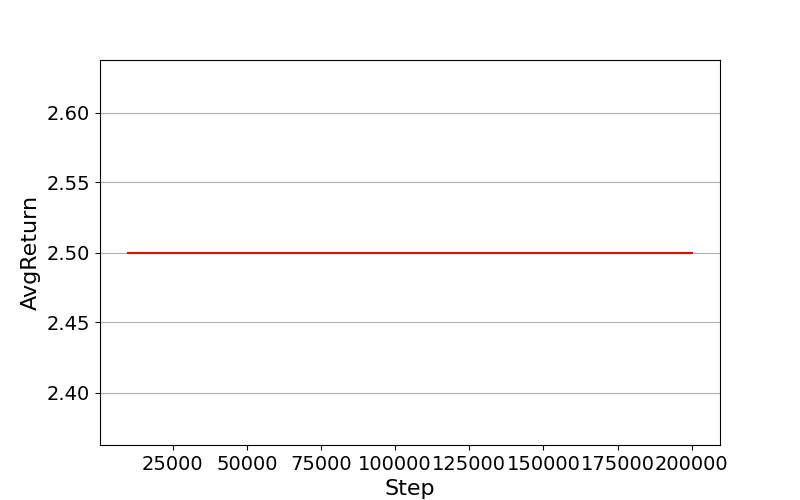
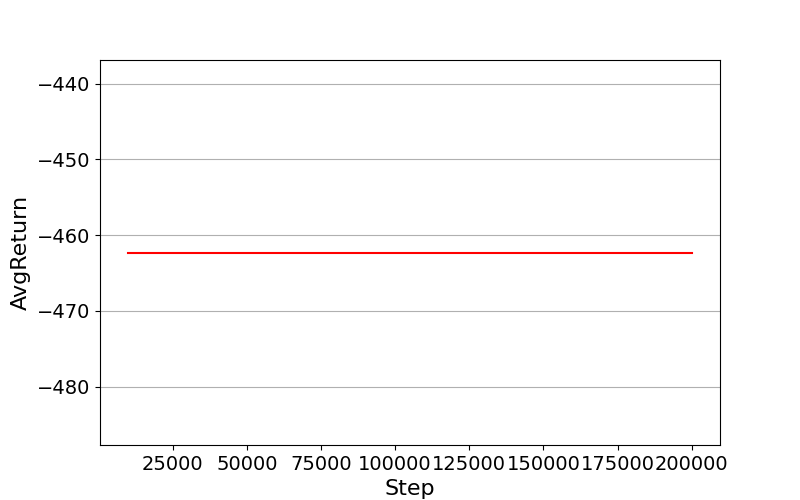
Update training plots, and apply linter formatting to teacher.py.

diff --git a/teacher/teacher.py b/teacher/teacher.py
@@ -16,15 +16,18 @@ from dataclasses import asdict
 import typing as tp
 from utils import log
 
+
 class Teacher:
-    def __init__(self,
-                 agent_preferences: AgentPreferences,
-                 env_preferences: MinesweeperEnvPreferences,
-                 eval_interval: int,
-                 learning_max_steps: int,
-                 model_filename: str,
-                 resume_from: str | None = None,
-                 use_tensorboard: bool = False) -> None:
+    def __init__(
+        self,
+        agent_preferences: AgentPreferences,
+        env_preferences: MinesweeperEnvPreferences,
+        eval_interval: int,
+        learning_max_steps: int,
+        model_filename: str,
+        resume_from: str | None = None,
+        use_tensorboard: bool = False,
+    ) -> None:
         self.env_preferences = env_preferences
         self.agent_preferences = agent_preferences
         self.env = get_minenv(env_preferences)
@@ -33,7 +36,7 @@ class Teacher:
         self.agent_preferences.state_dim = field_size
         self.agent = get_agent(agent_preferences)
         self.agent.action_dim = 2 * field_size[0] * field_size[1]
-        self.top_eval_score = -float('inf')
+        self.top_eval_score = -float("inf")
         self.last_eval_scores = None
         self.last_eval_rewards = None
         self.last_win_rate = 0.0
@@ -53,12 +56,14 @@ class Teacher:
         self._last_print_time: float = 0.0
 
         if resume_from:
-            checkpoint = torch.load(f'{MODELS_CHECKPOINTS_PATH}/{resume_from}', weights_only=False)
-            self.agent.network.load_state_dict(checkpoint['network'])
-            self.agent.optimizer.load_state_dict(checkpoint['optimizer'])
-            self.agent.total_steps = checkpoint['total_steps']
-            self.agent.epsilon = checkpoint['epsilon']
-            self.top_eval_score = checkpoint['top_eval_score']
+            checkpoint = torch.load(
+                f"{MODELS_CHECKPOINTS_PATH}/{resume_from}", weights_only=False
+            )
+            self.agent.network.load_state_dict(checkpoint["network"])
+            self.agent.optimizer.load_state_dict(checkpoint["optimizer"])
+            self.agent.total_steps = checkpoint["total_steps"]
+            self.agent.epsilon = checkpoint["epsilon"]
+            self.top_eval_score = checkpoint["top_eval_score"]
 
     @log
     def evaluate(self, n_evals=5):
@@ -73,7 +78,7 @@ class Teacher:
                 a = self.agent.act(s, training=False)
                 s, reward, terminated, truncated, info = eval_env.step(a)
                 done = terminated or truncated
-            episode_score = info['score']
+            episode_score = info["score"]
             if eval_env.unwrapped.game_won:
                 wins += 1
             rewards.append(episode_score)
@@ -87,13 +92,14 @@ class Teacher:
 
     @log
     def train(self):
-        history = {'Step': [], 'AvgReturn': []}
+        history = {"Step": [], "AvgReturn": []}
         (s, _) = self.env.reset()
         self.start_time = int(time.time())
         writer = None
         if self.use_tensorboard:
             from torch.utils.tensorboard import SummaryWriter
-            writer = SummaryWriter(f'runs/{self.start_time}')
+
+            writer = SummaryWriter(f"runs/{self.start_time}")
         while True:
             self.is_warmup = self.agent.warmup_steps > self.agent.total_steps
             if not self.is_warmup and self.non_warmup_start_time is None:
@@ -106,10 +112,14 @@ class Teacher:
             result = self.agent.process((s, a, r, s_prime, terminated))
             self.last_reward = r
             if result:
-                self.last_loss = result['value_loss']
+                self.last_loss = result["value_loss"]
                 if writer:
-                    writer.add_scalar('train/loss', result['value_loss'], result['total_steps'])
-                    writer.add_scalar('train/epsilon', self.agent.epsilon, result['total_steps'])
+                    writer.add_scalar(
+                        "train/loss", result["value_loss"], result["total_steps"]
+                    )
+                    writer.add_scalar(
+                        "train/epsilon", self.agent.epsilon, result["total_steps"]
+                    )
             s = s_prime
             if terminated or truncated:
                 s, _ = self.env.reset()
@@ -119,18 +129,20 @@ class Teacher:
                 ret = self.evaluate()
                 self.last_avg_return = ret
                 self.recent_eval_returns.append(ret)
-                history['Step'].append(self.agent.total_steps)
-                history['AvgReturn'].append(ret)
+                history["Step"].append(self.agent.total_steps)
+                history["AvgReturn"].append(ret)
                 if writer:
-                    writer.add_scalar('eval/avg_return', ret, self.agent.total_steps)
-                    writer.add_scalar('eval/win_rate', self.last_win_rate, self.agent.total_steps)
+                    writer.add_scalar("eval/avg_return", ret, self.agent.total_steps)
+                    writer.add_scalar(
+                        "eval/win_rate", self.last_win_rate, self.agent.total_steps
+                    )
                 if ret > self.top_eval_score:
                     self.top_eval_score = ret
                     if not self.is_warmup:
                         self.checkpoint_model()
                 if self.evals_counter % 10 == 0:
                     self.create_history_plot(history)
-            if self.env.render_mode == 'info':
+            if self.env.render_mode == "info":
                 self.print_learning_data()
             if self.agent.total_steps > self.learning_max_steps:
                 break
@@ -141,18 +153,18 @@ class Teacher:
 
     def create_history_plot(self, history: dict[str, list]):
         plt.figure(figsize=(8, 5))
-        plt.plot(history['Step'], history['AvgReturn'], 'r')
-        plt.xlabel('Step', fontsize=16)
-        plt.ylabel('AvgReturn', fontsize=16)
+        plt.plot(history["Step"], history["AvgReturn"], "r")
+        plt.xlabel("Step", fontsize=16)
+        plt.ylabel("AvgReturn", fontsize=16)
         plt.xticks(fontsize=14)
         plt.yticks(fontsize=14)
-        plt.grid(axis='y')
-        plt.savefig(f'./evaluations/{self.agent.total_steps}plot.png')
+        plt.grid(axis="y")
+        plt.savefig(f"./evaluations/{self.agent.total_steps}plot.png")
         plt.close()
-        with open('./evaluations/history.csv', 'w', newline='') as f:
+        with open("./evaluations/history.csv", "w", newline="") as f:
             writer = csv.writer(f)
-            writer.writerow(['Step', 'AvgReturn'])
-            writer.writerows(zip(history['Step'], history['AvgReturn']))
+            writer.writerow(["Step", "AvgReturn"])
+            writer.writerows(zip(history["Step"], history["AvgReturn"]))
 
     def print_learning_data(self):
         now = time.time()
@@ -166,71 +178,77 @@ class Teacher:
 
         bar_len = 38
         filled = int(bar_len * pct)
-        bar = '█' * filled + '░' * (bar_len - filled)
+        bar = "█" * filled + "░" * (bar_len - filled)
 
         elapsed = int(now - self.start_time)
         elapsed_str = str(datetime.timedelta(seconds=elapsed))
         if self.non_warmup_start_time and steps > self.agent.warmup_steps:
-            secs_per_step = (now - self.non_warmup_start_time) / max(steps - self.agent.warmup_steps, 1)
+            secs_per_step = (now - self.non_warmup_start_time) / max(
+                steps - self.agent.warmup_steps, 1
+            )
             eta_secs = max(0, int(secs_per_step * (max_steps - steps)))
             eta_str = str(datetime.timedelta(seconds=eta_secs))
         else:
-            eta_str = 'warming up...'
+            eta_str = "warming up..."
 
-        trend = ''
+        trend = ""
         if len(self.recent_eval_returns) >= 2:
             delta = self.recent_eval_returns[-1] - self.recent_eval_returns[-2]
-            trend = ' ↑' if delta > 0.5 else (' ↓' if delta < -0.5 else ' →')
+            trend = " ↑" if delta > 0.5 else (" ↓" if delta < -0.5 else " →")
 
         W = 48
-        os.system('clear')
-        print('═' * W)
-        print('  MinesweeperAI — Training')
-        print('═' * W)
-        print(f'  [{bar}] {pct:.1%}')
-        print(f'  Step:      {steps:>8,} / {max_steps:,}')
-        print(f'  Elapsed:   {elapsed_str:<14}  ETA: {eta_str}')
+        os.system("clear")
+        print("═" * W)
+        print("  Training")
+        print("═" * W)
+        print(f"  [{bar}] {pct:.1%}")
+        print(f"  Step:      {steps:>8,} / {max_steps:,}")
+        print(f"  Elapsed:   {elapsed_str:<14}  ETA: {eta_str}")
         print()
-        warmup_tag = '  [warmup]' if self.is_warmup else ''
-        print(f'  Epsilon:   {self.agent.epsilon:.4f}{warmup_tag}')
-        print(f'  Loss:      {self.last_loss:.4f}')
-        print(f'  Reward:    {self.last_reward}')
+        warmup_tag = "  [warmup]" if self.is_warmup else ""
+        print(f"  Epsilon:   {self.agent.epsilon:.4f}{warmup_tag}")
+        print(f"  Loss:      {self.last_loss:.4f}")
+        print(f"  Reward:    {self.last_reward}")
         print()
-        print(f'  {"── Evaluations ──":-<{W - 4}}')
-        avg_str = f'{self.last_avg_return:.2f}' if self.recent_eval_returns else 'n/a'
-        best_str = f'{self.top_eval_score:.2f}' if self.top_eval_score > -1e9 else 'n/a'
-        print(f'  Avg return:  {avg_str}')
-        print(f'  Win rate:    {self.last_win_rate:.1%}')
-        print(f'  Best score:  {best_str}')
+        print(f"  {'── Evaluations ──':-<{W - 4}}")
+        avg_str = f"{self.last_avg_return:.2f}" if self.recent_eval_returns else "n/a"
+        best_str = f"{self.top_eval_score:.2f}" if self.top_eval_score > -1e9 else "n/a"
+        print(f"  Avg return:  {avg_str}")
+        print(f"  Win rate:    {self.last_win_rate:.1%}")
+        print(f"  Best score:  {best_str}")
         if self.recent_eval_returns:
-            history = '  '.join(f'{s:.1f}' for s in self.recent_eval_returns[-6:])
-            print(f'  History:     {history}{trend}')
-        print('═' * W)
+            history = "  ".join(f"{s:.1f}" for s in self.recent_eval_returns[-6:])
+            print(f"  History:     {history}{trend}")
+        print("═" * W)
 
     def checkpoint_model(self, remove_previous=True):
         if not self.is_warmup:
             if self.last_saved_model_name is not None and remove_previous:
-                print('removing...', self.last_saved_model_name)
-                os.remove(f'{MODELS_CHECKPOINTS_PATH}/{self.last_saved_model_name}')
+                print("removing...", self.last_saved_model_name)
+                os.remove(f"{MODELS_CHECKPOINTS_PATH}/{self.last_saved_model_name}")
             self.last_saved_model_name = (
-                f'{self.start_time}_{self.agent.total_steps}_'
-                f'{round(self.top_eval_score, 2)}_{self.model_filename}'
+                f"{self.start_time}_{self.agent.total_steps}_"
+                f"{round(self.top_eval_score, 2)}_{self.model_filename}"
             )
             checkpoint = {
-                'network': self.agent.network.state_dict(),
-                'optimizer': self.agent.optimizer.state_dict(),
-                'total_steps': self.agent.total_steps,
-                'epsilon': self.agent.epsilon,
-                'top_eval_score': self.top_eval_score,
+                "network": self.agent.network.state_dict(),
+                "optimizer": self.agent.optimizer.state_dict(),
+                "total_steps": self.agent.total_steps,
+                "epsilon": self.agent.epsilon,
+                "top_eval_score": self.top_eval_score,
             }
-            torch.save(checkpoint, f'{MODELS_CHECKPOINTS_PATH}/{self.last_saved_model_name}')
+            torch.save(
+                checkpoint, f"{MODELS_CHECKPOINTS_PATH}/{self.last_saved_model_name}"
+            )
 
 
 def setup_teacher(teacher_kwargs: TeacherPreferences) -> Teacher:
-    return Teacher(teacher_kwargs.agent_preferences,
-                   teacher_kwargs.env_preferences,
-                   teacher_kwargs.eval_interval,
-                   teacher_kwargs.learning_max_steps,
-                   teacher_kwargs.model_filename,
-                   teacher_kwargs.resume_from,
-                   teacher_kwargs.use_tensorboard)
+    return Teacher(
+        teacher_kwargs.agent_preferences,
+        teacher_kwargs.env_preferences,
+        teacher_kwargs.eval_interval,
+        teacher_kwargs.learning_max_steps,
+        teacher_kwargs.model_filename,
+        teacher_kwargs.resume_from,
+        teacher_kwargs.use_tensorboard,
+    )